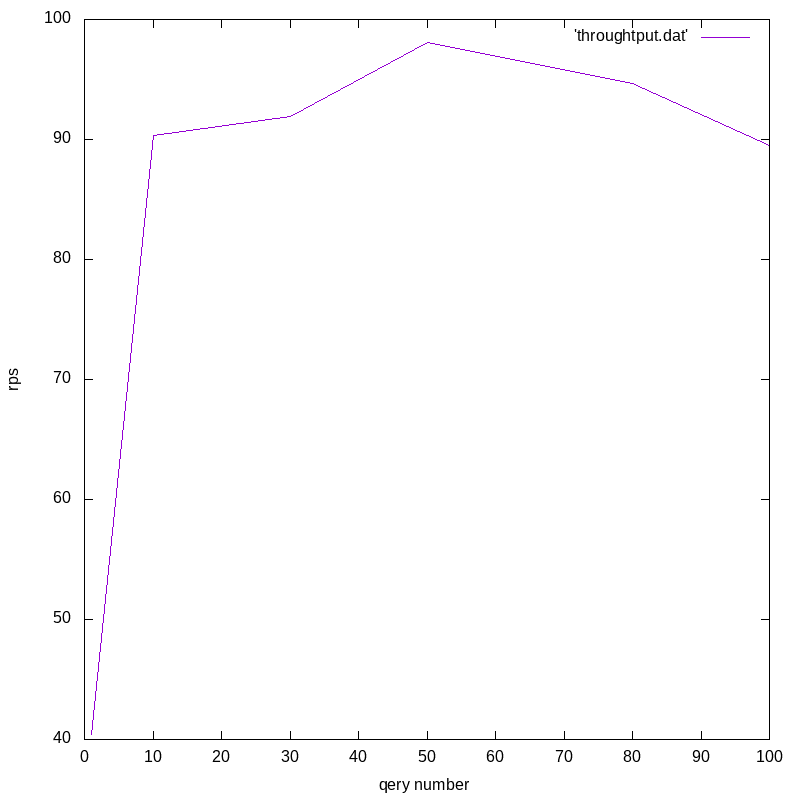
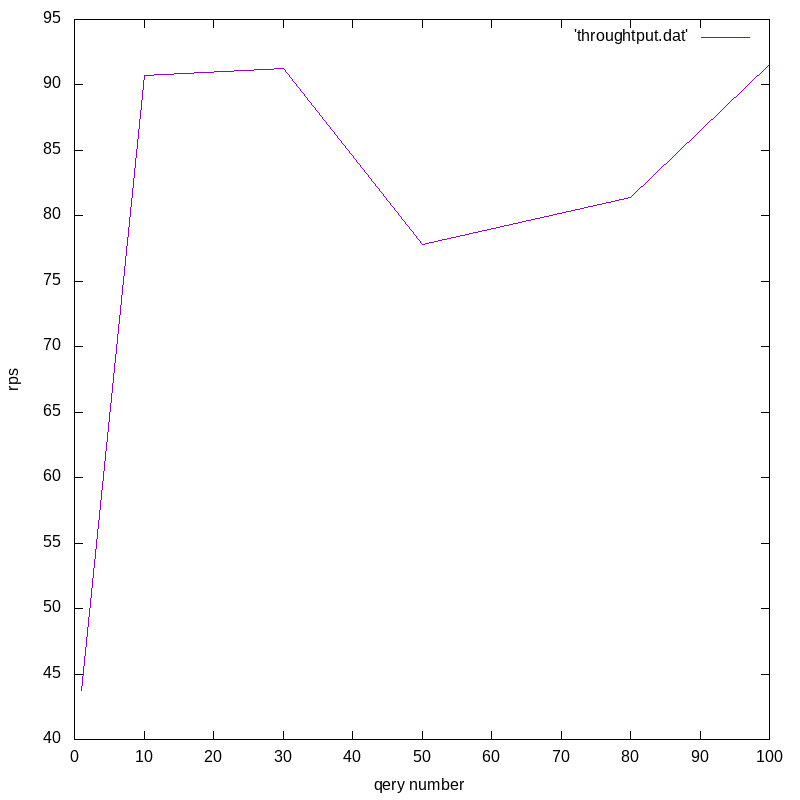
add replica, and change load test

diff --git a/app/Components/Repository.php b/app/Components/Repository.php
@@ -12,6 +12,9 @@ namespace App\Components;
 abstract class Repository
 {
     protected $connectionName = 'db';
+    protected $connectionNameReplica = 'db_replica';
+
+    private $useReplica = false;
 
     private static $connections;
     private static $config;
@@ -53,15 +56,33 @@ abstract class Repository
 
     protected function connection() : \PDO
     {
-        if (!isset(self::$connections[$this->connectionName])) {
-            self::$connections[$this->connectionName] = $this->createConnection(self::$config[$this->connectionName]);
+        $connectionName = $this->useReplica ? $this->connectionNameReplica: $this->connectionName;
+
+        if (!isset(self::$connections[$connectionName])) {
+            self::$connections[$connectionName] = $this->createConnection(self::$config[$connectionName]);
         }
 
-        return self::$connections[$this->connectionName];
+        return self::$connections[$connectionName];
     }
 
     private function createConnection($dbConfigItem)
     {
         return new \PDO($dbConfigItem['connectionString'], $dbConfigItem['user'], $dbConfigItem['password']);
+    }
+
+    /**
+     * @return bool
+     */
+    public function isUseReplica(): bool
+    {
+        return $this->useReplica;
+    }
+
+    /**
+     * @param bool $useReplica
+     */
+    public function setUseReplica(bool $useReplica): void
+    {
+        $this->useReplica = $useReplica;
     }
 }

diff --git a/app/Controllers/SearchController.php b/app/Controllers/SearchController.php
@@ -20,8 +20,19 @@ class SearchController extends Controller
         $lastNamePart = $this->request->get('lastName');
 
         $repo = new UserRepository();
+        $repo->setUseReplica(true);
 
         return $this->view('search/index', ['users' => $repo->search($firstNamePart, $lastNamePart)]);
 
+    }
+
+    public function city()
+    {
+        $city = $this->request->get('name');
+
+        $repo = new UserRepository();
+        $repo->setUseReplica(true);
+
+        return $this->view('search/index', ['users' => $repo->searchByCity($city)]);
     }
 }

diff --git a/loadTest/script.php b/loadTest/script.php
@@ -2,12 +2,11 @@
 
 function loadTest($graphPrefix)
 {
-
     $resultsLatency = [];
     $resultsThroughput = [];
     $outputBuffer = '';
     foreach ([1, 10, 30, 50, 80, 100] as $connectionNumber) {
-        $l = `wrk -c$connectionNumber -t1 --timeout 300s 'http://sn.in:8080/search?firstName=Mia&lastName=Hena'`;
+        $l = `wrk -c$connectionNumber -t1 -s query.lua 'http://sn.in:8080'`;
         preg_match('/Latency\s+(\d*.\d*)([a-z]+)/', $l, $m);
         $rpsValue = (float)$m[1];
         $rpsMesurment = $m[2];

diff --git a/app/config/config.php b/app/config/config.php
@@ -6,6 +6,12 @@ return [
             'connectionString' => getenv('DB_CONNECTION_STRING'),
             'user' => getenv('DB_USER'),
             'password' => getenv('DB_PASSWORD'),
+        ],
+        'db_replica' => [
+            'connectionString' => getenv('DB_CONNECTION_STRING_REPL'),
+            'user' => getenv('DB_USER'),
+            'password' => getenv('DB_PASSWORD'),
         ]
+
     ]
 ];

diff --git a/app/routes/web.php b/app/routes/web.php
@@ -14,4 +14,5 @@ return [
     'user' => new Route('/user', ['_controller' => \App\Controllers\HomeController::class, '_action' => 'user']),
 
     'search' => new Route('/search', ['_controller' => \App\Controllers\SearchController::class, '_action' => 'index']),
+    'search_city' => new Route('/search/city', ['_controller' => \App\Controllers\SearchController::class, '_action' => 'city']),
 ];

diff --git a/app/Models/User/UserRepository.php b/app/Models/User/UserRepository.php
@@ -82,4 +82,11 @@ class UserRepository extends Repository
     {
         return $this->selectClass('select * from users', User::class);
     }
+
+    public function searchByCity($city)
+    {
+        return $this->selectClass("select * from users where city like :city limit 1000", User::class, [
+            ':city' => $city . '%',
+        ]);
+    }
 }
